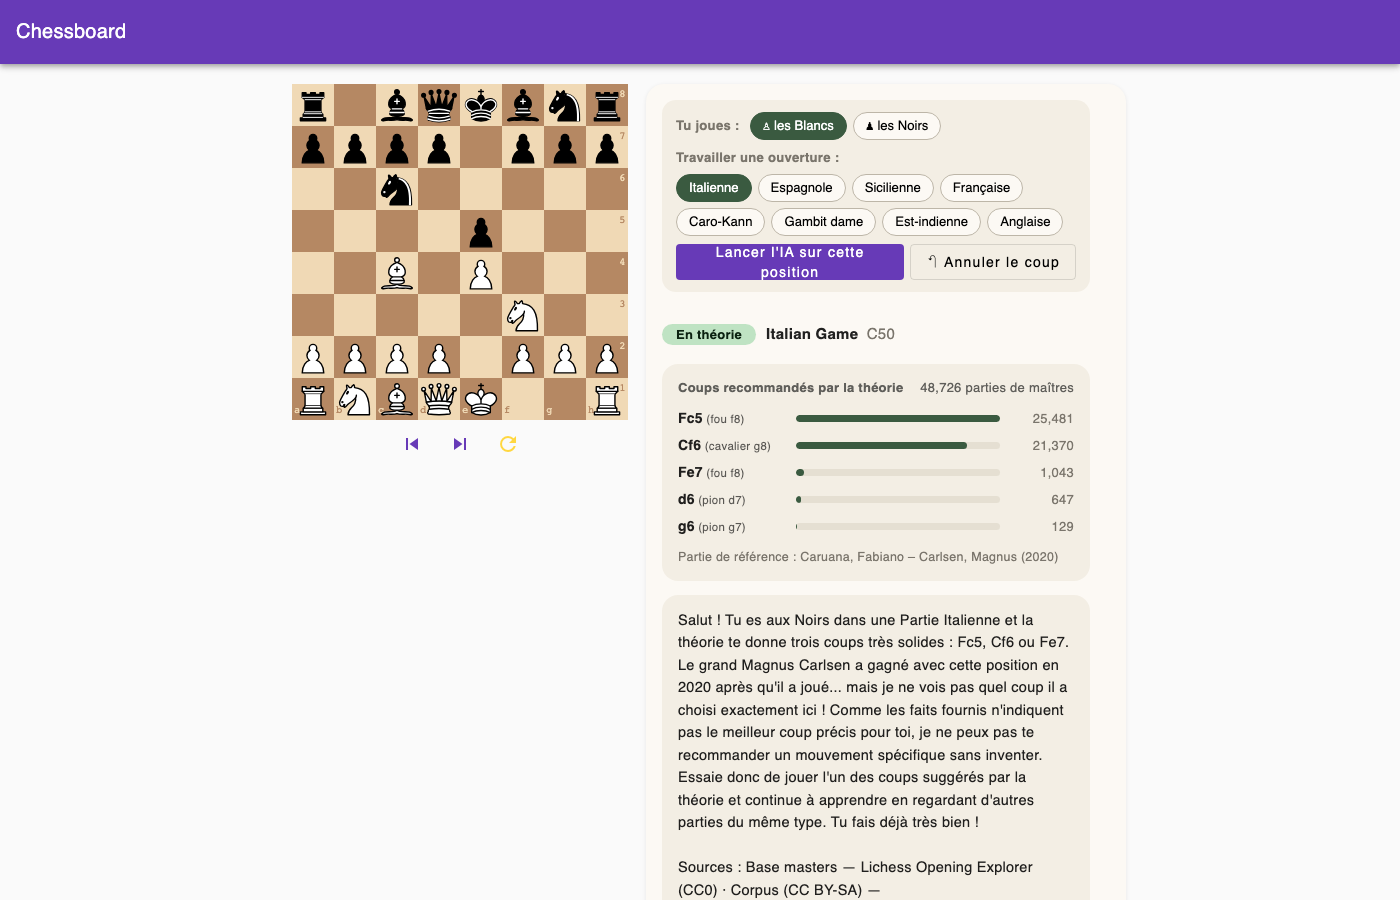
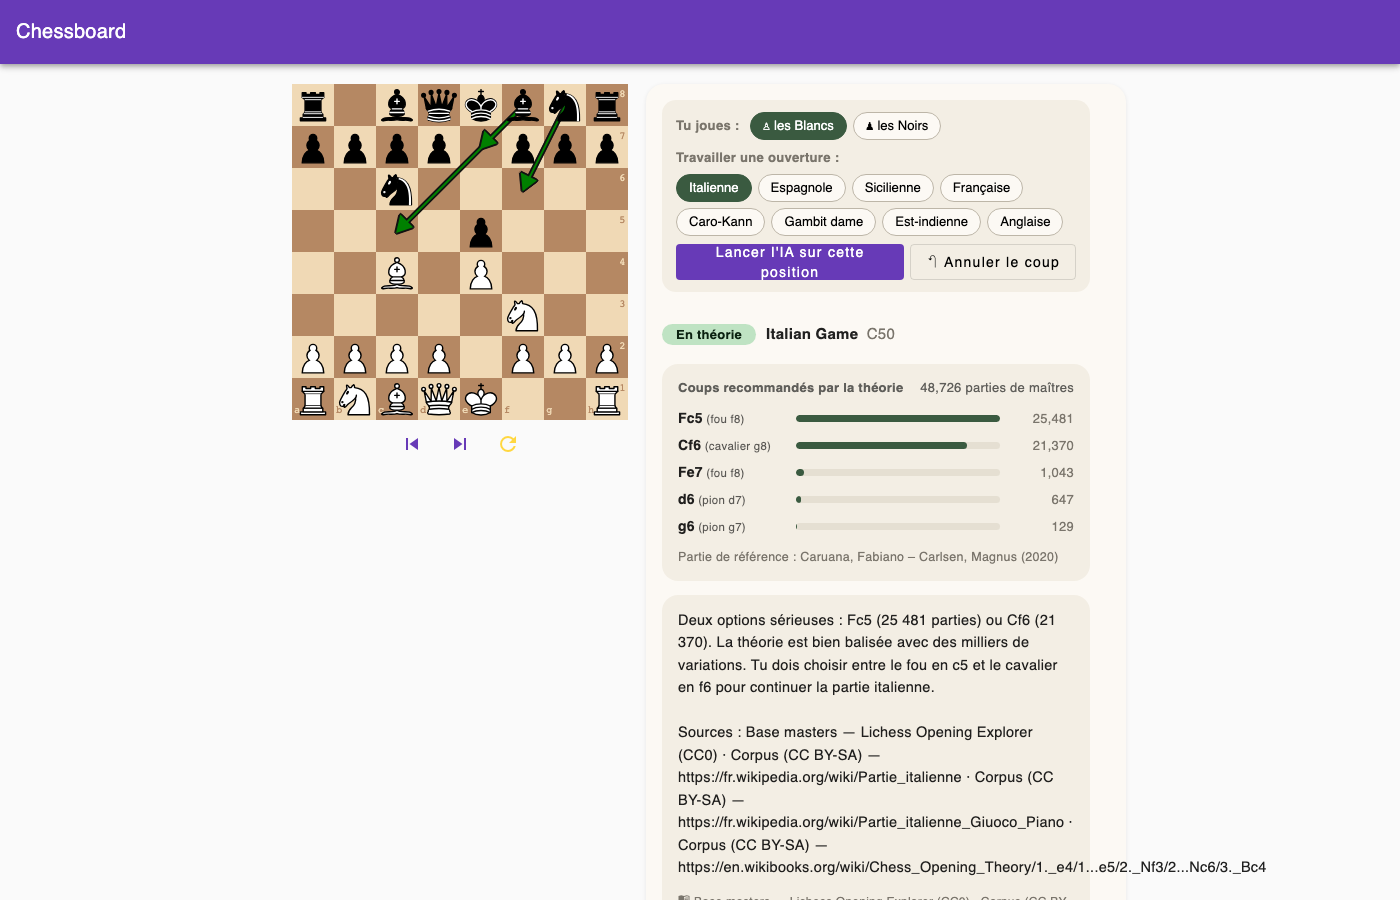
feat(front+synthese): un seul jeu de pièces, suggestions en flèches sur le plateau, ton lapidaire au champ des possibles
Verrous par couleur : l'élève ne bouge que son camp ; les pièces adverses ne se
déverrouillent qu'à la sortie de théorie (saisir le coup réel de l'adversaire).
Lib ngx-chess-board locale : drawMoves(ucis) — flèches programmatiques (plateau
retourné géré) ; le panneau émet le top 3 théorique, l'échiquier le dessine ;
séquence conseils+flèches d'abord (2 s de lecture), réponse adverse ensuite —
vérifié par échantillonnage. Synthèse : prompt lapidaire (2-3 phrases, première
phrase = les coups possibles, zéro salutation) + fait champ_des_possibles
CALCULÉ par le code (4 paliers, du « très large » au « sentier étroit — le
moteur prendra le relais ») + regex salutations corrigée (virgule). 67 tests
verts. Vérifié en réel : « Deux options sérieuses : Fc5 (25 481 parties) ou
Cf6 (21 370). La théorie est bien balisée… » — capture du deck refaite avec
les flèches.

diff --git a/frontend/projects/ngx-chess-board/src/lib/ngx-chess-board.component.ts b/frontend/projects/ngx-chess-board/src/lib/ngx-chess-board.component.ts
@@ -18,6 +18,8 @@ import {
     NotationProcessorFactory, NotationType,
 } from './engine/board-state-provider/board-loader/notation-processors/notation-processor-factory';
 import { ClickUtils } from './engine/click/click-utils';
+import { DrawPoint } from './engine/drawing-tools/draw-point';
+import { Arrow } from './engine/drawing-tools/shapes/arrow';
 import { EngineFacade } from './engine/engine-facade';
 import { MoveChange } from './engine/outputs/move-change/move-change';
 import { HistoryMove } from './history-move-provider/history-move';
@@ -168,6 +170,35 @@ export class NgxChessBoardComponent
             this.boardRef.nativeElement.getBoundingClientRect().left,
             this.boardRef.nativeElement.getBoundingClientRect().top
         );
+    }
+
+    /** Draws suggestion arrows for the given UCI moves (e.g. ['f8c5']) — programmatic
+     *  counterpart of the right-click drawing tool. Clears previous drawings first. */
+    drawMoves(ucis: string[], color: 'red' | 'green' | 'blue' | 'orange' = 'green'): void {
+        this.engineFacade.drawProvider.clear();
+        const sq = this.engineFacade.heightAndWidth / 8;
+        const reversed = this.engineFacade.board.reverted;
+        const center = (square: string): DrawPoint => {
+            let col = square.charCodeAt(0) - 97;
+            let row = 8 - parseInt(square.charAt(1), 10);
+            if (reversed) {
+                col = 7 - col;
+                row = 7 - row;
+            }
+            return new DrawPoint(col * sq + sq / 2, row * sq + sq / 2, color);
+        };
+        for (const uci of ucis) {
+            if (uci && uci.length >= 4) {
+                const arrow = new Arrow();
+                arrow.start = center(uci.substring(0, 2));
+                arrow.end = center(uci.substring(2, 4));
+                this.engineFacade.drawProvider.addArrow(arrow);
+            }
+        }
+    }
+
+    clearDrawings(): void {
+        this.engineFacade.drawProvider.clear();
     }
 
     reverse(): void {

diff --git a/frontend/src/app/chessboard/chessboard.component.ts b/frontend/src/app/chessboard/chessboard.component.ts
@@ -311,6 +311,7 @@ parseEvaluationToCentipawns(evaluation: string): number {
     this.currentIndex = 0;
     this.fenSubject.next(this.fen);
     this.fenUpdateSubject.next(this.fen);
+    this.boardManager.clearDrawings(); // la position a changé : les suggestions sont périmées
     this.jouerAdversaireSiBesoin(); // l'agent répond si c'est le trait du camp adverse
   }
  public loadNextPosition(): void {
@@ -388,7 +389,29 @@ public currentMoveIndex = 0;
     this.boardManager.setFEN(fen);
     this.fen = fen;
     this.horsTheorie = false;
-    this.jouerAdversaireSiBesoin();
+    // l'agent ne répond PAS tout de suite : l'élève lit d'abord les conseils
+    // et les flèches (montrerSuggestions déclenchera la réponse adverse).
+  }
+
+  /** Un seul jeu de pièces : l'élève ne bouge que SON camp. Les pièces adverses ne se
+   *  déverrouillent qu'à la sortie de théorie, pour saisir le coup réel de l'adversaire. */
+  public get verrouBlanches(): boolean {
+    return this.isBoardLocked || (this.camp === 'noir' && !this.horsTheorie);
+  }
+
+  public get verrouNoires(): boolean {
+    return this.isBoardLocked || (this.camp === 'blanc' && !this.horsTheorie);
+  }
+
+  /** Les suggestions du coach s'affichent SUR le plateau (flèches vertes) — puis,
+   *  après un temps de lecture, l'agent joue la réponse adverse si c'est son trait. */
+  public montrerSuggestions(ucis: string[]): void {
+    if (ucis.length) {
+      this.boardManager.drawMoves(ucis);
+    } else {
+      this.boardManager.clearDrawings();
+    }
+    setTimeout(() => this.jouerAdversaireSiBesoin(), 2000);
   }
 
   /**

diff --git a/livrables/rendu/presentation-soutenance.html b/livrables/rendu/presentation-soutenance.html
@@ -100,7 +100,7 @@
       <p><span class="num">2.</span> Elle choisit <strong>son point de départ</strong> : l'Italienne, ou une position libre.</p>
       <p><span class="num">3.</span> <strong>L'agent joue les coups de l'adversaire</strong> — les plus joués par les maîtres, jamais un choix de LLM. Elle joue les siens ; une erreur ? « Annuler le coup ».</p>
       <p><span class="num">4.</span> <strong>Hors théorie, l'agent le signale</strong> et lui laisse la main.</p>
-      <p><span class="num">5.</span> Position prête → <strong>« Lancer l'IA »</strong> : coups + statistiques, explication <strong>sourcée</strong>, vidéos, question libre.</p>
+      <p><span class="num">5.</span> Position prête → <strong>« Lancer l'IA »</strong> : coups + statistiques <strong>et flèches sur l'échiquier</strong>, explication <strong>sourcée</strong>, vidéos, question libre.</p>
       <p><span class="num">6.</span> Sur un coup douteux : <strong>évaluation objective du moteur</strong>.</p>
     </div>
   </div>

diff --git a/frontend/src/app/chessboard/chessboard.component.html b/frontend/src/app/chessboard/chessboard.component.html
@@ -36,7 +36,8 @@
           <app-coach-panel [fen]="fen"
                            (campChoisi)="choisirCamp($event)"
                            (ouvertureChoisie)="chargerPosition($event)"
-                           (annulerCoup)="annulerDernierCoup()"></app-coach-panel>
+                           (annulerCoup)="annulerDernierCoup()"
+                           (suggestions)="montrerSuggestions($event)"></app-coach-panel>
         </div>
 
         <!-- Section Échiquier -->
@@ -57,8 +58,8 @@
                   [dragDisabled]="isBoardLocked" 
                   [drawDisabled]="drawDisabled"
                   [darkTileColor]="darkTileColor"
-                  [lightDisabled]="isBoardLocked"
-                  [darkDisabled]="isBoardLocked"
+                  [lightDisabled]="verrouBlanches"
+                  [darkDisabled]="verrouNoires"
                   [pieceIcons]="icons"
                   [freeMode]="freeMode">
                 </ngx-chess-board>

diff --git a/frontend/src/app/coach-panel/coach-panel.component.ts b/frontend/src/app/coach-panel/coach-panel.component.ts
@@ -48,6 +48,8 @@ export class CoachPanelComponent implements OnInit {
   @Output() campChoisi = new EventEmitter<'blanc' | 'noir'>();
   @Output() ouvertureChoisie = new EventEmitter<string>();
   @Output() annulerCoup = new EventEmitter<void>();
+  /** Les coups suggérés (UCI) — l'échiquier les dessine en flèches. */
+  @Output() suggestions = new EventEmitter<string[]>();
 
   constructor(private agent: AgentService) {}
 
@@ -94,6 +96,8 @@ export class CoachPanelComponent implements OnInit {
         // le LLM glisse parfois du Markdown (**gras**) : on affiche du texte propre
         this.reponse = { ...r, answer: r.answer.replace(/\*\*/g, '') };
         this.chargement = false;
+        // les suggestions se voient AUSSI sur le plateau (flèches) — top 3 théorique
+        this.suggestions.emit((r.theory_moves ?? []).slice(0, 3).map((m) => m.uci));
       },
       error: () => {
         this.erreurReseau = true;

diff --git a/backend/graph/synthese.py b/backend/graph/synthese.py
@@ -19,15 +19,20 @@ PROMPT_COACH = """Tu es un coach d'échecs pour de jeunes joueurs (10 à 14 ans)
 On te donne des FAITS vérifiés sur une position. Règles absolues :
 1. Ne recommande JAMAIS un coup absent des faits fournis. N'invente ni coup, ni chiffre.
 2. N'ajoute AUCUNE explication stratégique de ton cru : présente les faits, rien de plus.
-3. Si les faits sont vides ou insuffisants, dis honnêtement que tu ne peux pas répondre.
-4. Rédige 3 à 5 phrases en français simple, tutoie l'élève, reste encourageant.
-5. N'écris PAS de ligne « Sources » : elle est ajoutée automatiquement après toi.
-6. Ce n'est PAS une conversation : ne salue jamais (« Salut », « Bonjour »...),
-   ne te présente pas — entre directement dans l'analyse de la position."""
+3. Si les faits sont vides ou insuffisants, dis-le en une phrase.
+4. STYLE LAPIDAIRE : 2 à 3 phrases courtes maximum. Tutoie. Pas un mot de trop.
+5. Commence TOUJOURS par le champ des possibles : les coups jouables et leurs parties.
+   Exemple : « Deux options sérieuses : Fc5 (25 481 parties) ou Cf6 (21 370). »
+6. Le fait « champ_des_possibles » dit si la théorie est large ou se resserre :
+   reprends-le tel quel en une phrase — quand il se resserre, dis que la sortie de
+   théorie approche et que le moteur prendra le relais.
+7. N'écris PAS de ligne « Sources » : elle est ajoutée automatiquement après toi.
+8. Ce n'est PAS une conversation : JAMAIS de salutation (« Salut », « Bonjour »...),
+   de présentation ou de formule d'accueil — première phrase = les coups possibles."""
 
-# Le LLM local n'obéit pas toujours à la règle 6 : le code, si (garanti par construction).
+# Le LLM local n'obéit pas toujours à la règle 8 : le code, si (garanti par construction).
 _SALUTATIONS = re.compile(
-    r"^(salut|bonjour|coucou|hello|hey|bonsoir)\s*(à toi|jeune joueur|champion(ne)?)?\s*[!,.:]*\s*",
+    r"^(salut|bonjour|coucou|hello|hey|bonsoir|bienvenue|yo)\b[^.!?:,\n]{0,40}[!,.:]?\s*",
     re.IGNORECASE,
 )
 
@@ -103,6 +108,30 @@ def synthese_gabarit(state: AgentState) -> dict:
     return {"answer": " ".join(parts), "sources": sources}
 
 
+def _champ_des_possibles(moves: list[dict], total: int) -> str:
+    """Le resserrement de la théorie, calculé par le CODE (déterministe), mis en mots par le LLM.
+
+    Plus on avance dans les parties de maîtres, plus le champ se resserre — jusqu'au
+    moment où la théorie s'épuise et où l'autre plateau (Stockfish) prend le relais.
+    """
+    serieux = [m for m in moves if m["games"] >= max(1, total * 0.05)]
+    if total > 100_000:
+        largeur = "la théorie est très large, presque tout se joue encore"
+    elif total > 5_000:
+        largeur = "la théorie est bien balisée"
+    elif total > 500:
+        largeur = "le champ des possibles se resserre nettement"
+    else:
+        largeur = (
+            "sentier étroit : la sortie de théorie est toute proche, "
+            "le moteur prendra bientôt le relais"
+        )
+    return (
+        f"{len(serieux)} option(s) sérieusement jouée(s) parmi {len(moves)} coups recensés, "
+        f"{total} parties de maîtres — {largeur}."
+    )
+
+
 def _faits_annotes(state: AgentState) -> str:
     """Les faits préparés pour le LLM — coups annotés, évaluation pré-verbalisée."""
     faits: dict = {}
@@ -117,6 +146,7 @@ def _faits_annotes(state: AgentState) -> str:
         faits["coups_recommandes_par_la_theorie"] = [
             {"coup": annoter_san(m["san"]), "parties": m["games"]} for m in moves[:3]
         ]
+        faits["champ_des_possibles"] = _champ_des_possibles(moves, state.get("total_games", 0))
     top_games = state.get("top_games") or []
     if top_games:
         faits["partie_de_reference"] = top_games[0]

diff --git a/backend/tests/test_synthese_llm.py b/backend/tests/test_synthese_llm.py
@@ -35,6 +35,21 @@ def test_annoter_san() -> None:
     assert annoter_san("e8=Q") == "e8=Q — le pion va en e8 et devient une Dame"
 
 
+def test_champ_des_possibles_se_resserre() -> None:
+    # Le resserrement est calculé par le CODE, pas estimé par le LLM (déterminisme).
+    moves = [{"san": "e4", "games": 60}, {"san": "d4", "games": 30}, {"san": "h4", "games": 1}]
+    large = syn._champ_des_possibles(moves, 200_000)
+    etroit = syn._champ_des_possibles(moves, 91)
+    assert "très large" in large
+    assert "sentier étroit" in etroit and "moteur" in etroit
+    assert etroit.startswith("2 option(s) sérieusement jouée(s) parmi 3 coups")
+
+
+def test_salutations_retirees() -> None:
+    for debut in ("Salut !", "Bonjour jeune champion,", "Coucou Léa !", "Hey :"):
+        assert syn._SALUTATIONS.sub("", debut + " deux options.").strip() == "deux options."
+
+
 def test_libelle_fr() -> None:
     # Né de l'alerte « Bc5 illégal » : la case de départ lève l'ambiguïté visuelle.
     assert libelle_fr("Bc5", "f8c5") == "Fc5 (fou f8)"

diff --git a/livrables/documentation-technique.md b/livrables/documentation-technique.md
@@ -64,7 +64,7 @@ Erreurs typées et actionnables (429 → Retry-After, 401 → message explicite,
 
 ## 5. Le front
 
-Angular 19 (starter OC material-chessboard, lib ngx-chess-board locale). Parcours élève (revu sur retours mentor) : choix du camp (le plateau se retourne) → **mode entraînement : l'agent joue les coups de l'adversaire** (le plus joué des maîtres via `/moves` — jamais un choix de LLM ; plus de théorie → signal et main rendue à l'élève) → « Annuler le coup » retire la paire de coups → sélecteur d'ouverture (8 rayons) → **bouton « Lancer l'IA »** (pas de déclenchement automatique). Notation française annotée « Fc5 (fou f8) ». Lien profond de démo : `http://localhost:4200/#ouverture=Italienne`.
+Angular 19 (starter OC material-chessboard, lib ngx-chess-board locale). Parcours élève (revu sur retours mentor) : choix du camp (le plateau se retourne) → **mode entraînement : l'agent joue les coups de l'adversaire** (le plus joué des maîtres via `/moves` — jamais un choix de LLM ; plus de théorie → signal et main rendue à l'élève) → « Annuler le coup » retire la paire de coups → sélecteur d'ouverture (8 rayons) → **bouton « Lancer l'IA »** (pas de déclenchement automatique). **Un seul jeu de pièces** : les pièces adverses sont verrouillées (elles ne se déverrouillent qu'à la sortie de théorie, pour saisir le coup réel de l'adversaire). **Les suggestions s'affichent sur le plateau** (flèches vertes, top 3 théorique) ; séquence : conseils + flèches d'abord, réponse adverse ensuite. Notation française annotée « Fc5 (fou f8) ». Lien profond de démo : `http://localhost:4200/#ouverture=Italienne`.
 
 ## 6. Évaluation et mesures (tout est rejouable)
 

diff --git a/livrables/presentation-soutenance.md b/livrables/presentation-soutenance.md
@@ -38,7 +38,7 @@ Un seul parcours, suivi jusqu'au bout — Léa travaille l'Italienne avec les Bl
 2. **Elle choisit son point de départ** : l'Italienne (parmi les 8 ouvertures), ou une position libre.
 3. **L'agent joue les coups de l'adversaire** — les plus joués par les maîtres, jamais un choix de LLM ; elle joue les siens. Une erreur ? « Annuler le coup » retire la paire.
 4. **Hors théorie, l'agent le signale** et lui laisse la main : annuler, ou analyser.
-5. **Position prête → « Lancer l'IA »** : coups des maîtres avec statistiques, explication **avec sources cliquables**, vidéos — et une question libre si elle veut.
+5. **Position prête → « Lancer l'IA »** : coups des maîtres avec statistiques **et flèches sur l'échiquier**, explication **avec sources cliquables**, vidéos — et une question libre si elle veut.
 6. **Sur un coup douteux**, l'agent change d'outil : **évaluation objective du moteur**.
 
 Capture : `rendu/captures/ui-accueil.png` (l'accueil qui explique ce parcours). À aucun moment le système n'invente : il va chercher, il assemble, il cite.
